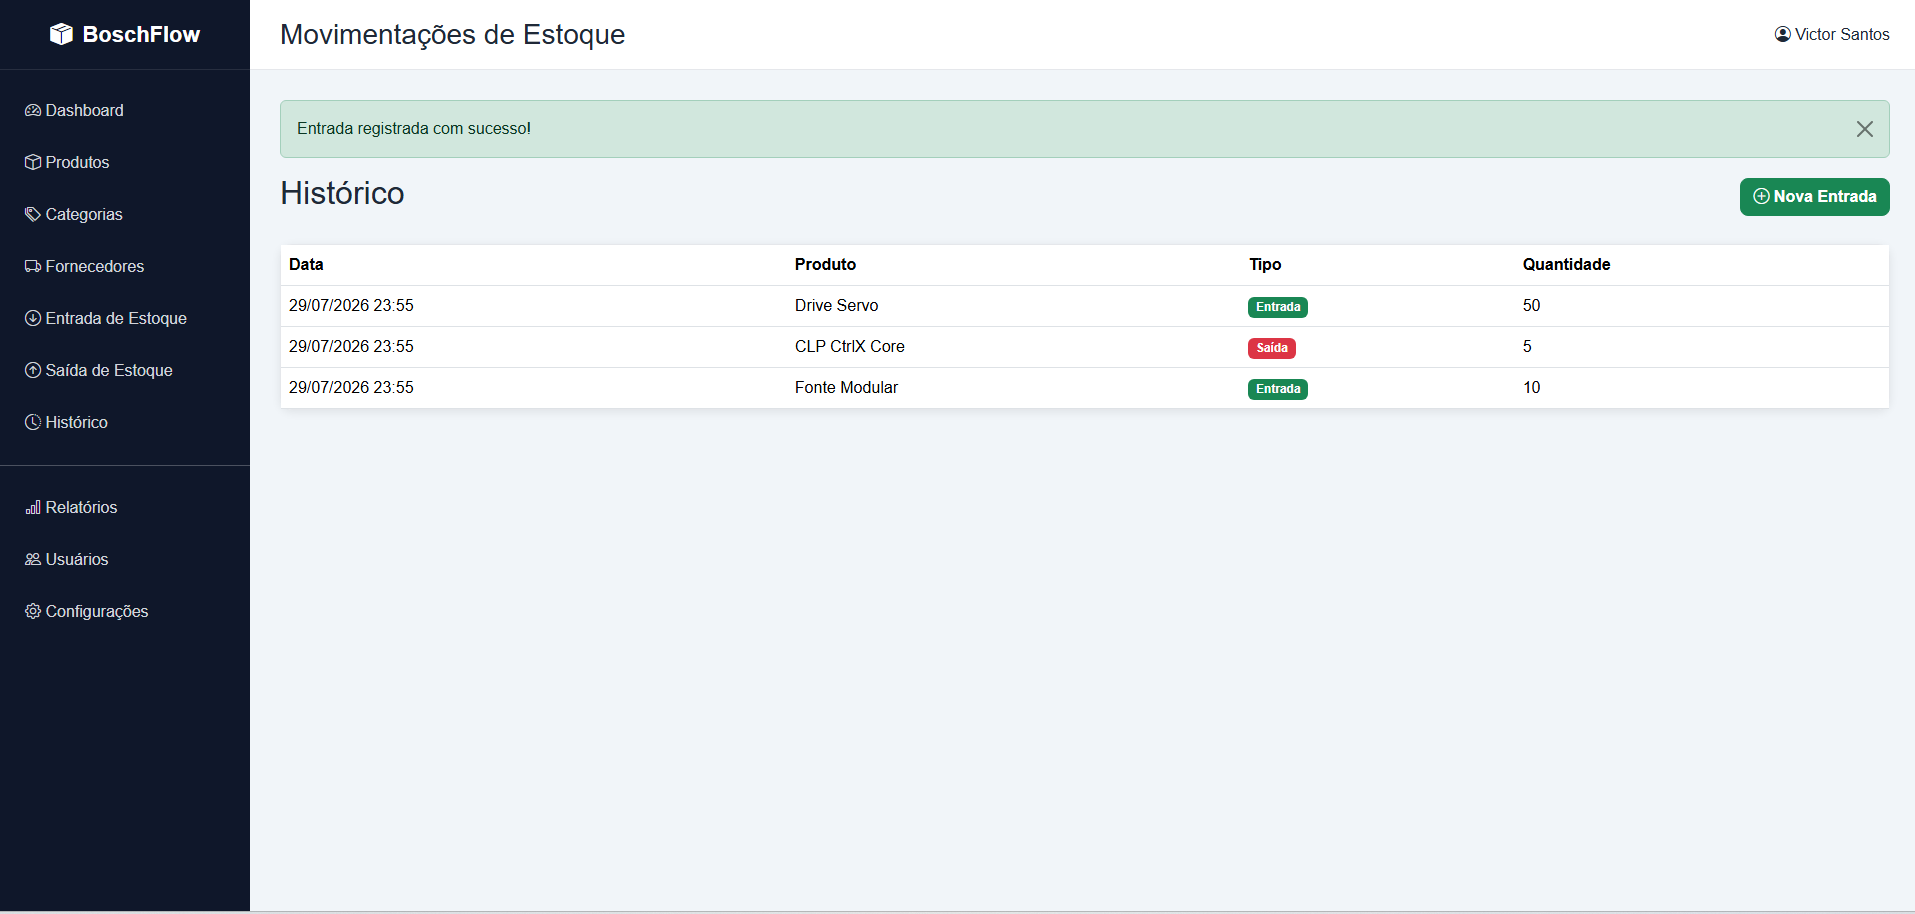
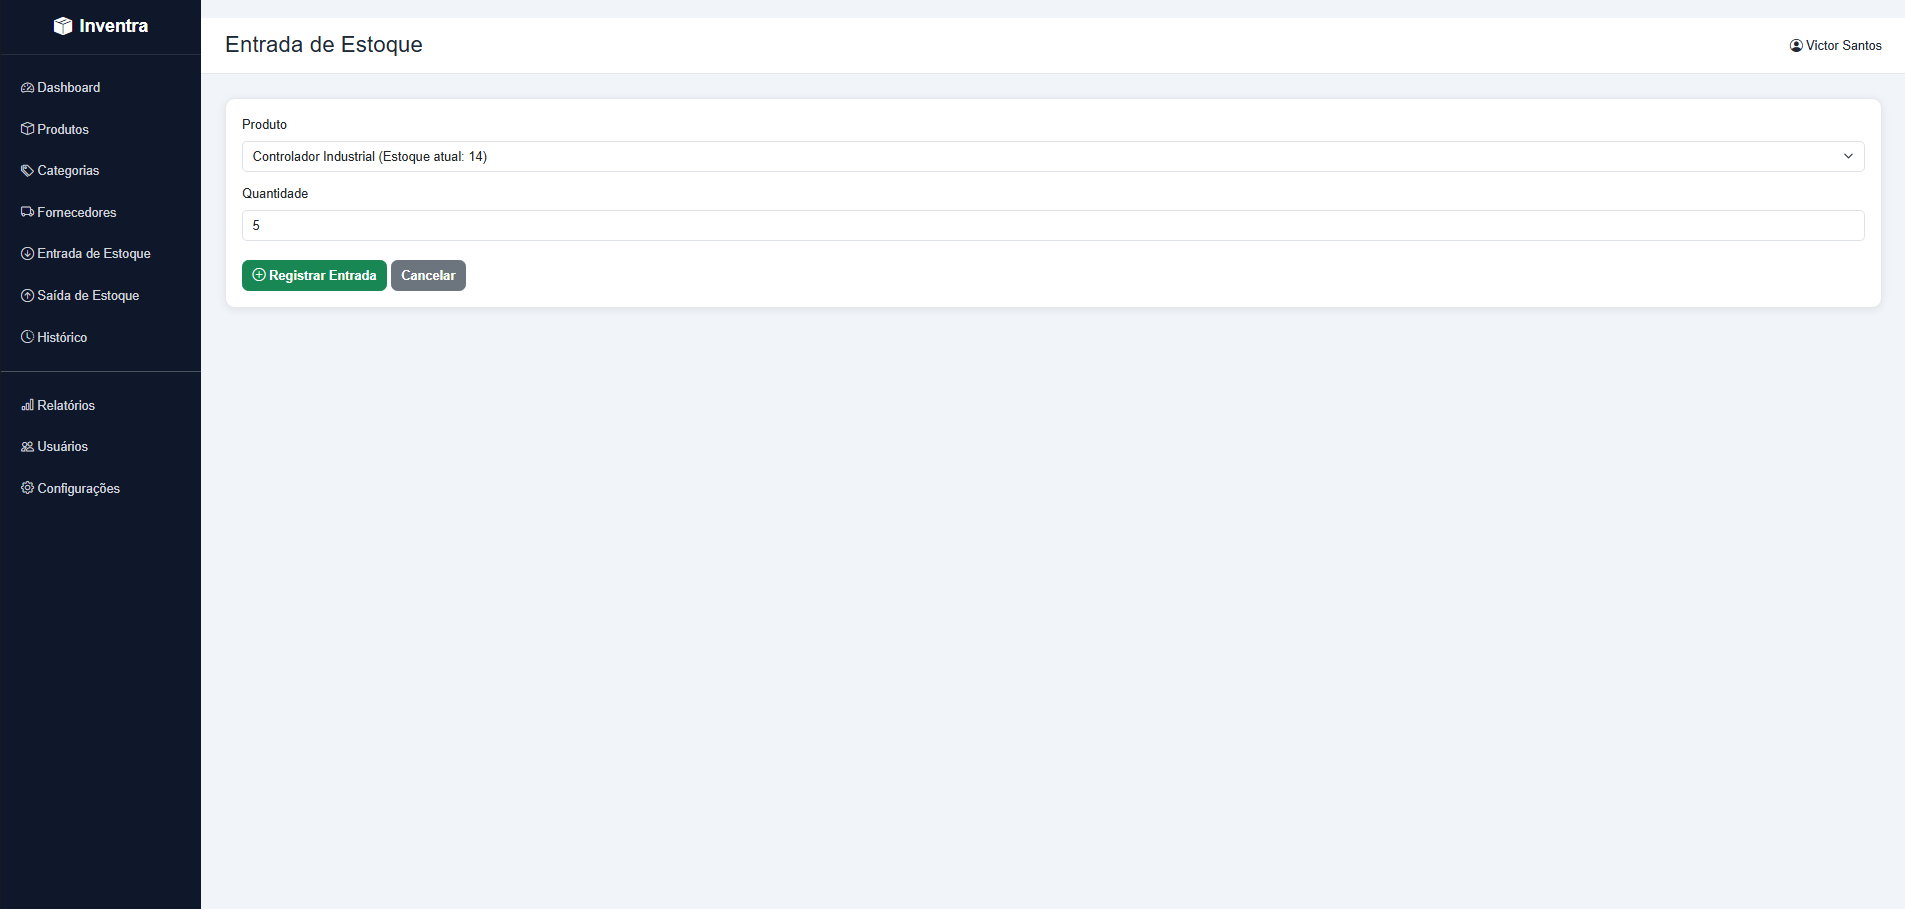
docs: update Inventra screenshots and project presentation

diff --git a/templates/produtos/listar.html b/templates/produtos/listar.html
@@ -54,7 +54,7 @@ Produtos
                     type="text"
                     id="pesquisaProduto"
                     class="form-control"
-                    placeholder="ðŸ” Pesquisar produto...">
+                    placeholder="Pesquisar produto...">
 
             </div>
 

diff --git a/README.md b/README.md
@@ -196,25 +196,17 @@ http://127.0.0.1:5000
 
 ## Screenshots
 
-### Login
-
-![Tela de login](Screenshots/login.png)
-
 ### Dashboard
 
 ![Dashboard](Screenshots/dashboard.png)
 
-### Produtos
+### Gestão de Produtos
 
 ![Gestão de produtos](Screenshots/produtos.png)
 
 ### Entrada de Estoque
 
 ![Entrada de estoque](Screenshots/entrada-estoque.png)
-
-### Saída de Estoque
-
-![Saída de estoque](Screenshots/saida-estoque.png)
 
 ---
 
